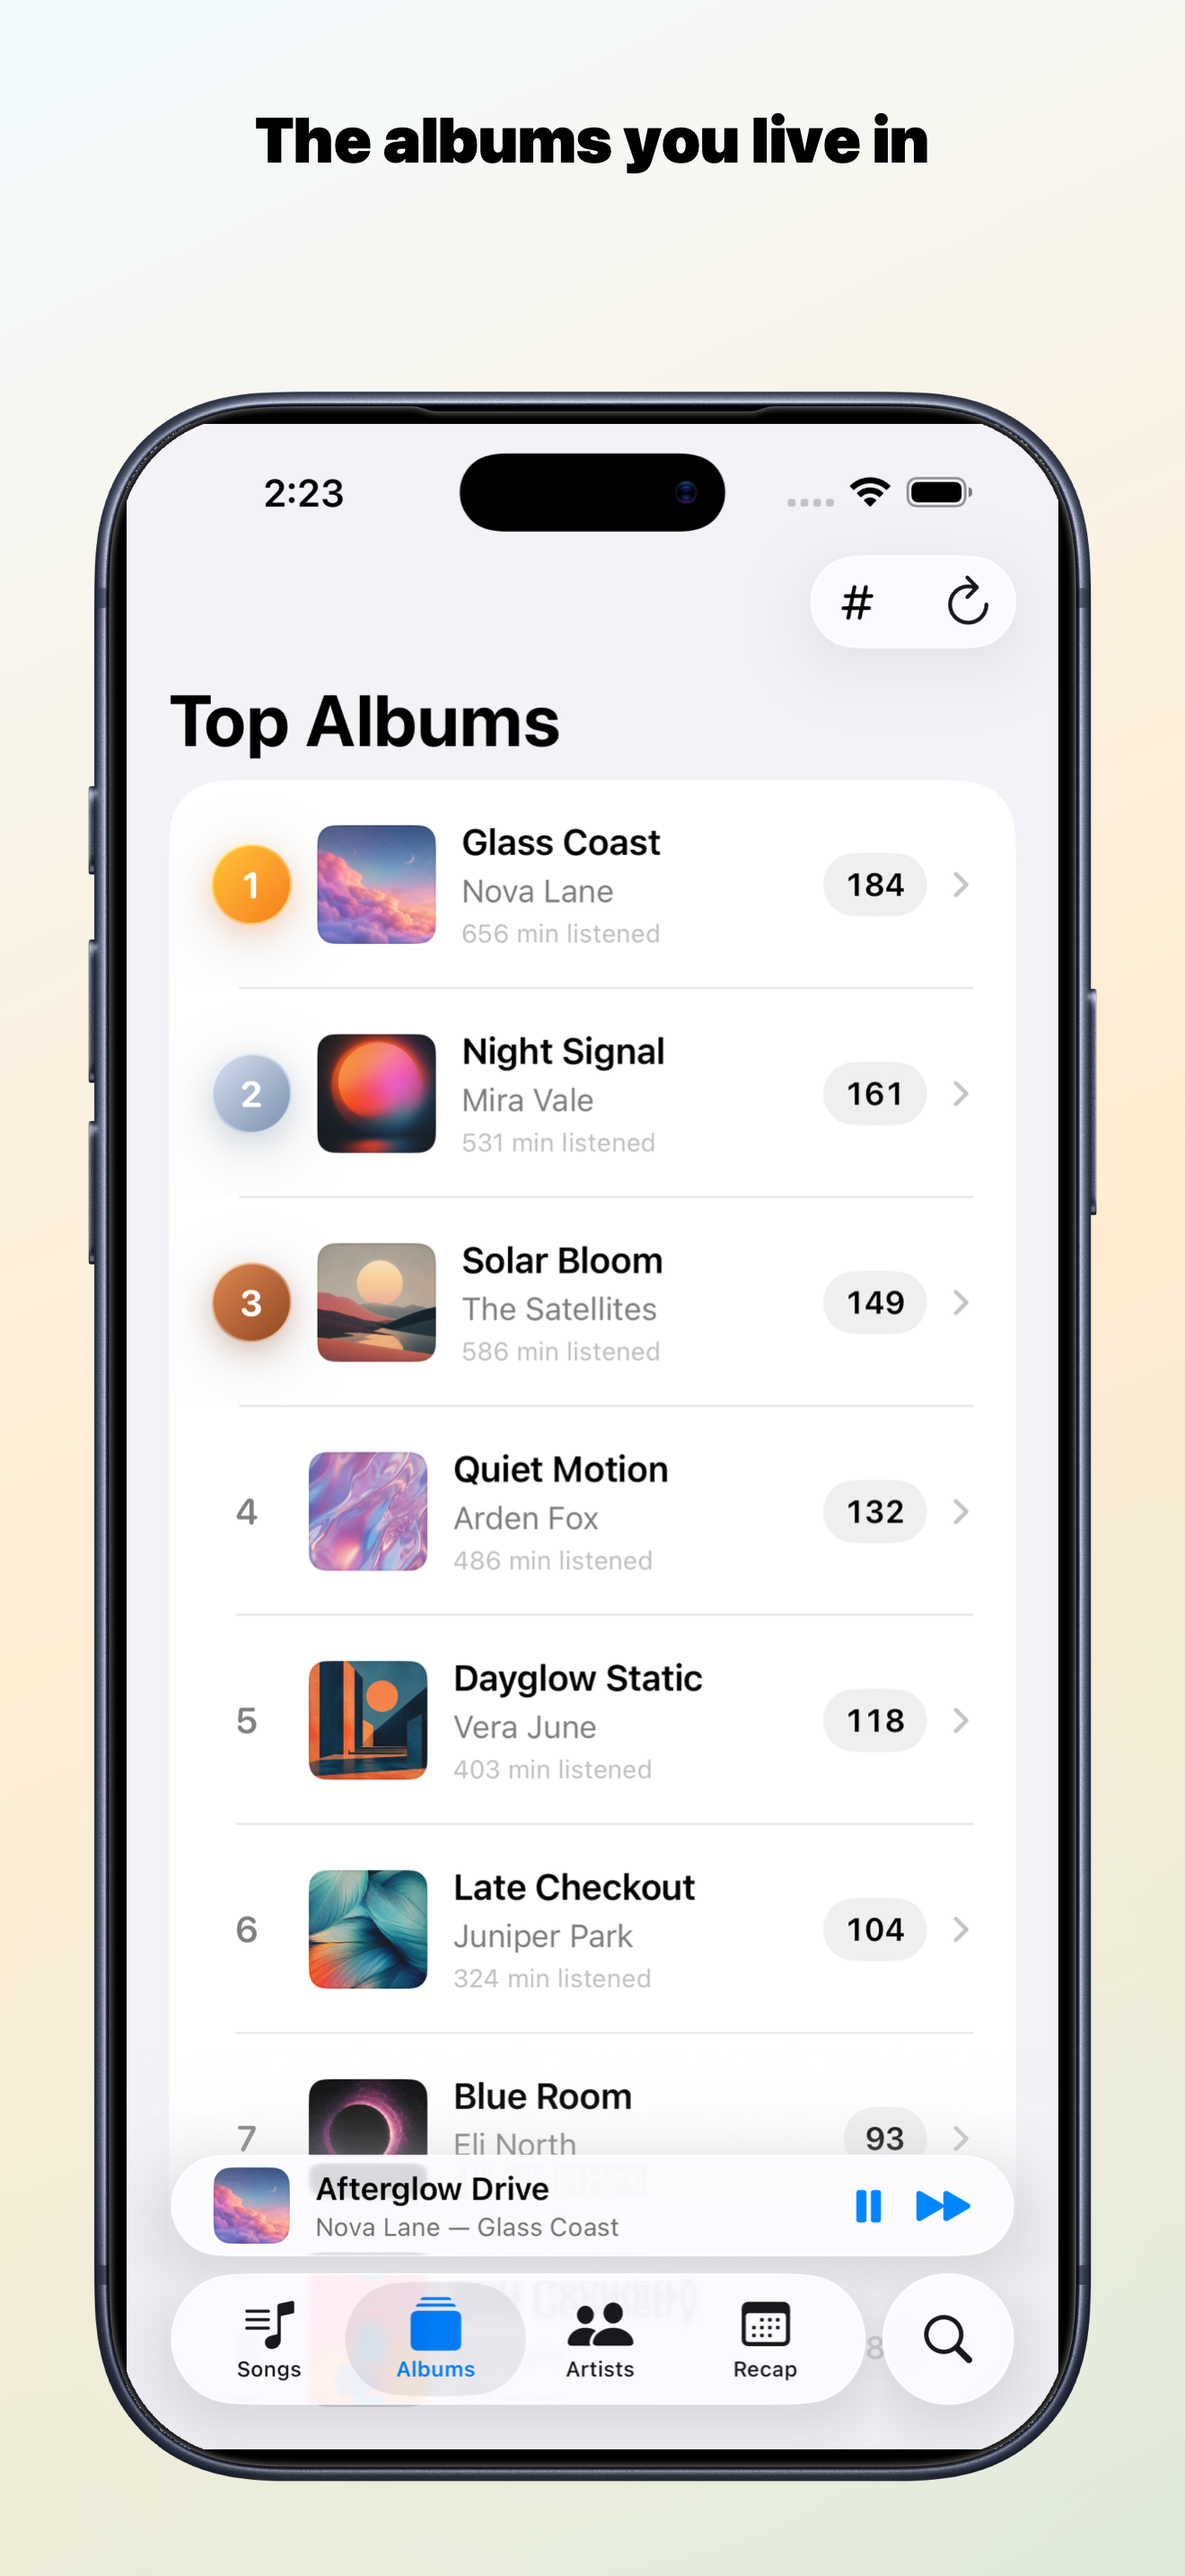
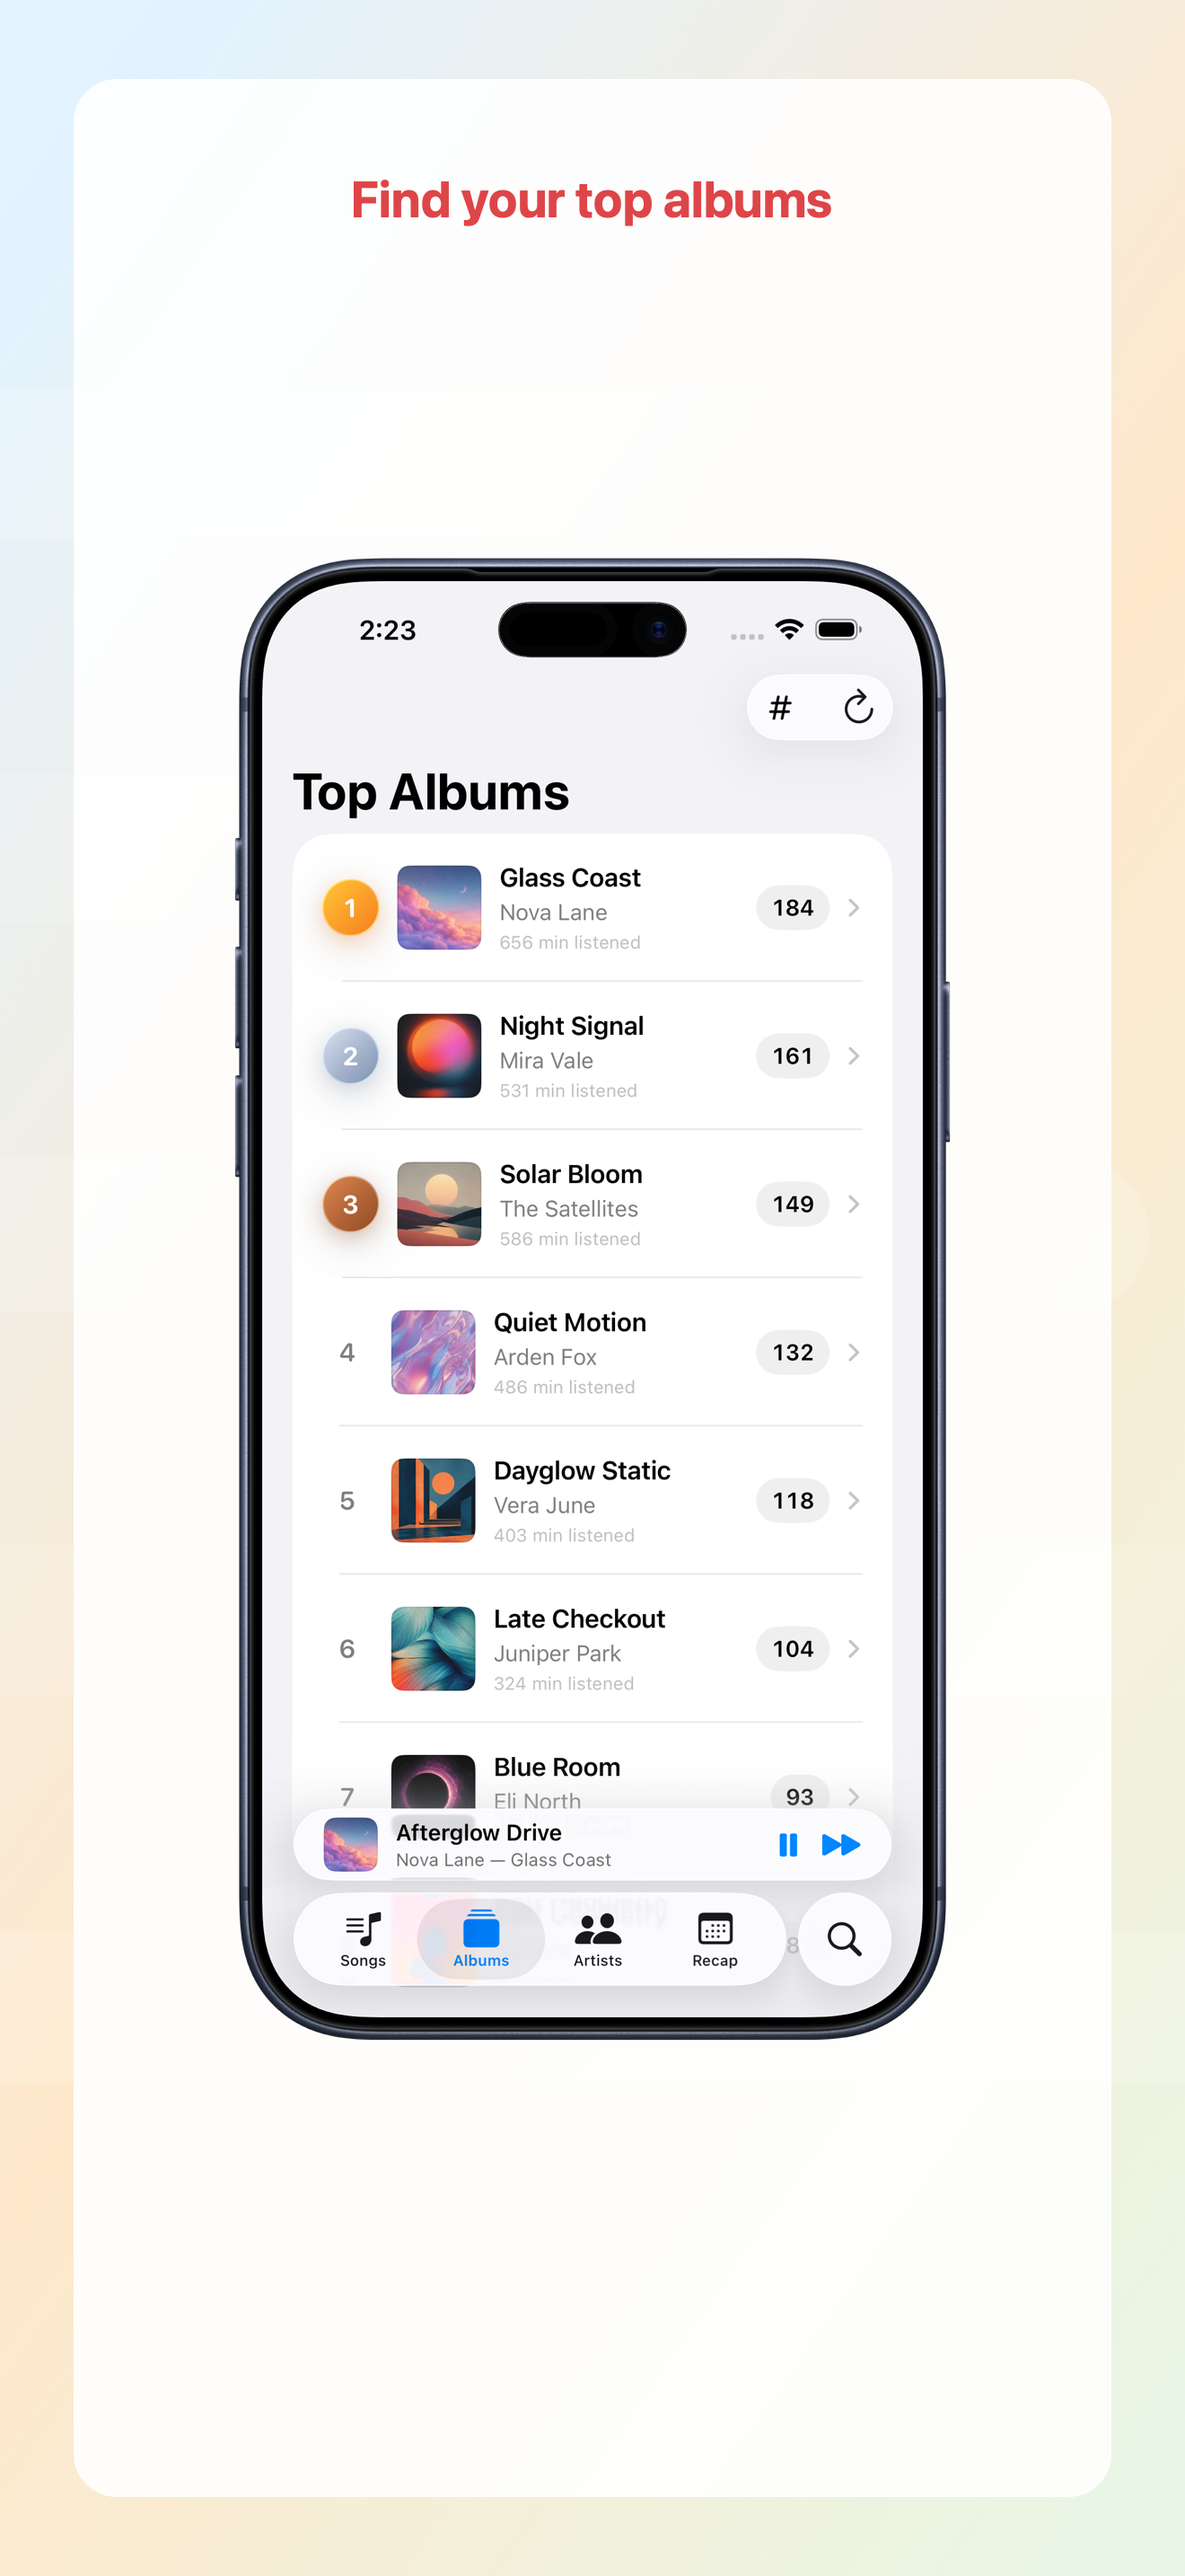
Fix App Store screenshot framing

diff --git a/tools/create_app_store_framed_screenshots.swift b/tools/create_app_store_framed_screenshots.swift
@@ -6,7 +6,7 @@ struct Shot {
     let input: String
     let output: String
     let title: String
-    let colors: [NSColor]
+    let backgroundOffset: CGFloat
 }
 
 let root = URL(fileURLWithPath: FileManager.default.currentDirectoryPath)
@@ -21,49 +21,34 @@ let shots: [Shot] = [
     Shot(
         input: "01-top-songs.png",
         output: "01-your-music-ranked.png",
-        title: "See what you actually replay",
-        colors: [
-            NSColor(calibratedRed: 0.98, green: 0.94, blue: 0.97, alpha: 1),
-            NSColor(calibratedRed: 0.88, green: 0.94, blue: 1.00, alpha: 1),
-            NSColor(calibratedRed: 1.00, green: 0.90, blue: 0.70, alpha: 1)
-        ]
+        title: "See your all-time favorites",
+        backgroundOffset: 0
     ),
     Shot(
         input: "02-top-albums.png",
         output: "02-albums-that-stick.png",
-        title: "The albums you live in",
-        colors: [
-            NSColor(calibratedRed: 0.94, green: 0.98, blue: 1.00, alpha: 1),
-            NSColor(calibratedRed: 1.00, green: 0.91, blue: 0.78, alpha: 1),
-            NSColor(calibratedRed: 0.84, green: 0.90, blue: 0.82, alpha: 1)
-        ]
+        title: "Find your top albums",
+        backgroundOffset: 1
     ),
     Shot(
         input: "03-top-artists.png",
         output: "03-top-artists.png",
-        title: "Who owned your rotation?",
-        colors: [
-            NSColor(calibratedRed: 0.95, green: 0.93, blue: 1.00, alpha: 1),
-            NSColor(calibratedRed: 0.86, green: 0.97, blue: 0.94, alpha: 1),
-            NSColor(calibratedRed: 1.00, green: 0.86, blue: 0.84, alpha: 1)
-        ]
+        title: "Track your top artists",
+        backgroundOffset: 2
     ),
     Shot(
         input: "04-monthly-recap.png",
         output: "04-monthly-recaps.png",
-        title: "Your month in music",
-        colors: [
-            NSColor(calibratedRed: 0.84, green: 0.78, blue: 0.92, alpha: 1),
-            NSColor(calibratedRed: 1.00, green: 0.86, blue: 0.91, alpha: 1),
-            NSColor(calibratedRed: 0.82, green: 0.91, blue: 1.00, alpha: 1)
-        ]
+        title: "Replay your month",
+        backgroundOffset: 3
     )
 ]
 
 let canvasSize = CGSize(width: 1320, height: 2868)
-let deviceFrame = CGRect(x: 82, y: 420, width: 1156, height: 2359)
-let bezelScreenRect = CGRect(x: 75, y: 66, width: 1320, height: 2868)
-let titleRect = CGRect(x: 86, y: 118, width: 1148, height: 132)
+let cardRect = CGRect(x: 82, y: 88, width: 1156, height: 2692)
+let deviceFrame = CGRect(x: 250, y: 610, width: 820, height: 1673)
+let titleRect = CGRect(x: 158, y: 190, width: 1004, height: 210)
+let rgbaBitmapInfo = CGBitmapInfo.byteOrder32Big.rawValue | CGImageAlphaInfo.premultipliedLast.rawValue
 
 func flipped(_ rect: CGRect) -> CGRect {
     CGRect(x: rect.origin.x, y: canvasSize.height - rect.origin.y - rect.height, width: rect.width, height: rect.height)
@@ -100,52 +85,53 @@ func drawText(_ text: String, rect: CGRect, font: NSFont, color: NSColor, contex
     NSGraphicsContext.restoreGraphicsState()
 }
 
-func drawBackground(colors: [NSColor], context: CGContext) {
+func drawBackground(offset: CGFloat, context: CGContext) {
     let colorSpace = CGColorSpaceCreateDeviceRGB()
-    let cgColors = colors.map { $0.cgColor } as CFArray
-    let gradient = CGGradient(colorsSpace: colorSpace, colors: cgColors, locations: [0, 0.54, 1])!
+    let cgColors = [
+        NSColor(calibratedRed: 0.96, green: 0.93, blue: 1.00, alpha: 1).cgColor,
+        NSColor(calibratedRed: 0.86, green: 0.94, blue: 1.00, alpha: 1).cgColor,
+        NSColor(calibratedRed: 1.00, green: 0.89, blue: 0.75, alpha: 1).cgColor,
+        NSColor(calibratedRed: 0.89, green: 0.96, blue: 0.88, alpha: 1).cgColor,
+        NSColor(calibratedRed: 1.00, green: 0.84, blue: 0.92, alpha: 1).cgColor
+    ] as CFArray
+    let gradient = CGGradient(colorsSpace: colorSpace, colors: cgColors, locations: [0, 0.25, 0.50, 0.75, 1])!
     context.drawLinearGradient(
         gradient,
-        start: CGPoint(x: 0, y: canvasSize.height),
-        end: CGPoint(x: canvasSize.width, y: 0),
+        start: CGPoint(x: -canvasSize.width * (0.55 + offset * 0.45), y: canvasSize.height),
+        end: CGPoint(x: canvasSize.width * (1.65 + offset * 0.45), y: 0),
         options: []
     )
 
-    let overlay = CGGradient(
-        colorsSpace: colorSpace,
-        colors: [
-            NSColor.white.withAlphaComponent(0.26).cgColor,
-            NSColor.white.withAlphaComponent(0.00).cgColor
-        ] as CFArray,
-        locations: [0, 1]
-    )!
-    context.drawRadialGradient(
-        overlay,
-        startCenter: CGPoint(x: canvasSize.width * 0.50, y: canvasSize.height * 0.18),
-        startRadius: 0,
-        endCenter: CGPoint(x: canvasSize.width * 0.50, y: canvasSize.height * 0.18),
-        endRadius: 950,
-        options: [.drawsAfterEndLocation]
-    )
+    context.saveGState()
+    context.setBlendMode(.softLight)
+    for index in 0..<5 {
+        let rect = CGRect(
+            x: -760 + CGFloat(index * 120) - offset * 300,
+            y: CGFloat(430 + index * 430),
+            width: 2100,
+            height: 170
+        )
+        let path = CGPath(roundedRect: flipped(rect), cornerWidth: 85, cornerHeight: 85, transform: nil)
+        context.addPath(path)
+        context.setFillColor(NSColor.white.withAlphaComponent(index.isMultiple(of: 2) ? 0.18 : 0.10).cgColor)
+        context.fillPath()
+    }
+    context.restoreGState()
 }
 
-func screenRect(in destination: CGRect, bezelSize: CGSize) -> CGRect {
-    let scaleX = destination.width / bezelSize.width
-    let scaleY = destination.height / bezelSize.height
-    return CGRect(
-        x: destination.minX + bezelScreenRect.minX * scaleX,
-        y: destination.minY + bezelScreenRect.minY * scaleY,
-        width: bezelScreenRect.width * scaleX,
-        height: bezelScreenRect.height * scaleY
-    )
+struct BezelCompositeAssets {
+    let overlay: CGImage
+    let screenMask: CGImage
+    let screenBounds: CGRect
 }
 
-func transparentScreenBezel(from image: CGImage) throws -> CGImage {
+func makeBezelCompositeAssets(from image: CGImage) throws -> BezelCompositeAssets {
     let width = image.width
     let height = image.height
     let bytesPerPixel = 4
     let bytesPerRow = width * bytesPerPixel
     var pixels = [UInt8](repeating: 0, count: height * bytesPerRow)
+    var maskPixels = [UInt8](repeating: 0, count: width * height)
     let colorSpace = CGColorSpaceCreateDeviceRGB()
 
     guard let bitmap = CGContext(
@@ -155,36 +141,111 @@ func transparentScreenBezel(from image: CGImage) throws -> CGImage {
         bitsPerComponent: 8,
         bytesPerRow: bytesPerRow,
         space: colorSpace,
-        bitmapInfo: CGImageAlphaInfo.premultipliedLast.rawValue
+        bitmapInfo: rgbaBitmapInfo
     ) else {
         throw NSError(domain: "renderer", code: 5)
     }
 
     bitmap.draw(image, in: CGRect(x: 0, y: 0, width: width, height: height))
 
-    let minX = max(0, Int(bezelScreenRect.minX))
-    let maxX = min(width, Int(bezelScreenRect.maxX))
-    let minY = max(0, Int(bezelScreenRect.minY))
-    let maxY = min(height, Int(bezelScreenRect.maxY))
+    func isScreenCutout(_ x: Int, _ y: Int) -> Bool {
+        let offset = y * bytesPerRow + x * bytesPerPixel
+        return pixels[offset + 3] < 10
+    }
 
-    for y in minY..<maxY {
-        for x in minX..<maxX {
-            let offset = y * bytesPerRow + x * bytesPerPixel
-            let red = pixels[offset]
-            let green = pixels[offset + 1]
-            let blue = pixels[offset + 2]
-            let alpha = pixels[offset + 3]
-            if alpha > 0 && red < 18 && green < 18 && blue < 22 {
-                pixels[offset] = 0
-                pixels[offset + 1] = 0
-                pixels[offset + 2] = 0
-                pixels[offset + 3] = 0
+    var startPoint: (x: Int, y: Int)?
+    var bestDistance = Int.max
+    let centerX = width / 2
+    let centerY = height / 2
+    for y in 0..<height {
+        for x in 0..<width where isScreenCutout(x, y) {
+            let distance = abs(x - centerX) + abs(y - centerY)
+            if distance < bestDistance {
+                bestDistance = distance
+                startPoint = (x, y)
             }
         }
     }
 
-    guard let output = bitmap.makeImage() else {
+    guard let startPoint else {
+        throw NSError(domain: "renderer", code: 8, userInfo: [NSLocalizedDescriptionKey: "Could not find transparent screen pixels in Apple bezel"])
+    }
+
+    var visited = [Bool](repeating: false, count: width * height)
+    var stack = [startPoint]
+    var minX = width
+    var minY = height
+    var maxX = 0
+    var maxY = 0
+
+    while let point = stack.popLast() {
+        guard point.x >= 0, point.x < width, point.y >= 0, point.y < height else { continue }
+        let index = point.y * width + point.x
+        guard !visited[index] else { continue }
+        visited[index] = true
+        guard isScreenCutout(point.x, point.y) else { continue }
+
+        maskPixels[index] = 255
+        minX = min(minX, point.x)
+        minY = min(minY, point.y)
+        maxX = max(maxX, point.x)
+        maxY = max(maxY, point.y)
+
+        stack.append((point.x + 1, point.y))
+        stack.append((point.x - 1, point.y))
+        stack.append((point.x, point.y + 1))
+        stack.append((point.x, point.y - 1))
+    }
+
+    guard minX < maxX, minY < maxY else {
+        throw NSError(domain: "renderer", code: 8, userInfo: [NSLocalizedDescriptionKey: "Could not detect Apple bezel screen area"])
+    }
+
+    guard let overlay = bitmap.makeImage(),
+          let maskProvider = CGDataProvider(data: Data(maskPixels) as CFData),
+          let mask = CGImage(
+            width: width,
+            height: height,
+            bitsPerComponent: 8,
+            bitsPerPixel: 8,
+            bytesPerRow: width,
+            space: CGColorSpaceCreateDeviceGray(),
+            bitmapInfo: CGBitmapInfo(rawValue: CGImageAlphaInfo.none.rawValue),
+            provider: maskProvider,
+            decode: nil,
+            shouldInterpolate: true,
+            intent: .defaultIntent
+          ) else {
         throw NSError(domain: "renderer", code: 6)
+    }
+
+    return BezelCompositeAssets(
+        overlay: overlay,
+        screenMask: mask,
+        screenBounds: CGRect(x: minX, y: minY, width: maxX - minX + 1, height: maxY - minY + 1)
+    )
+}
+
+func makeScreenshotLayer(screenshot: CGImage, bezelSize: CGSize, screenBounds: CGRect, screenMask: CGImage) throws -> CGImage {
+    guard let context = CGContext(
+        data: nil,
+        width: Int(bezelSize.width),
+        height: Int(bezelSize.height),
+        bitsPerComponent: 8,
+        bytesPerRow: 0,
+        space: CGColorSpaceCreateDeviceRGB(),
+        bitmapInfo: rgbaBitmapInfo
+    ) else {
+        throw NSError(domain: "renderer", code: 9)
+    }
+
+    context.saveGState()
+    context.clip(to: CGRect(x: 0, y: 0, width: bezelSize.width, height: bezelSize.height), mask: screenMask)
+    context.draw(screenshot, in: CGRect(x: screenBounds.minX, y: screenBounds.minY, width: screenBounds.width, height: screenBounds.height))
+    context.restoreGState()
+
+    guard let output = context.makeImage() else {
+        throw NSError(domain: "renderer", code: 10)
     }
     return output
 }
@@ -197,41 +258,45 @@ func render(_ shot: Shot) throws {
         bitsPerComponent: 8,
         bytesPerRow: 0,
         space: CGColorSpaceCreateDeviceRGB(),
-        bitmapInfo: CGImageAlphaInfo.premultipliedLast.rawValue
+        bitmapInfo: rgbaBitmapInfo
     ) else {
         throw NSError(domain: "renderer", code: 1)
     }
 
-    drawBackground(colors: shot.colors, context: context)
+    drawBackground(offset: shot.backgroundOffset, context: context)
+    drawRoundedRect(cardRect, radius: 48, color: NSColor.white.withAlphaComponent(0.90), in: context)
 
     drawText(
         shot.title,
         rect: titleRect,
-        font: NSFont.systemFont(ofSize: 70, weight: .black),
-        color: .black,
+        font: NSFont.systemFont(ofSize: 56, weight: .bold),
+        color: NSColor(calibratedRed: 0.83, green: 0.18, blue: 0.22, alpha: 1),
         context: context,
         alignment: .center,
-        lineHeight: 78
+        lineHeight: 64
     )
 
     guard let bezelImage = NSImage(contentsOf: bezelURL),
           let bezelCGImage = bezelImage.cgImage(forProposedRect: nil, context: nil, hints: nil) else {
         throw NSError(domain: "renderer", code: 7, userInfo: [NSLocalizedDescriptionKey: "Missing Apple bezel image at \(bezelURL.path)"])
     }
-    let bezelOverlay = try transparentScreenBezel(from: bezelCGImage)
-    let screenDestination = screenRect(in: deviceFrame, bezelSize: CGSize(width: bezelCGImage.width, height: bezelCGImage.height))
+    let bezelSize = CGSize(width: bezelCGImage.width, height: bezelCGImage.height)
+    let bezelAssets = try makeBezelCompositeAssets(from: bezelCGImage)
 
     let inputURL = inputDir.appendingPathComponent(shot.input)
     guard let source = NSImage(contentsOf: inputURL), let cgImage = source.cgImage(forProposedRect: nil, context: nil, hints: nil) else {
         throw NSError(domain: "renderer", code: 2, userInfo: [NSLocalizedDescriptionKey: "Missing input \(shot.input)"])
     }
 
-    context.saveGState()
-    context.addPath(CGPath(roundedRect: flipped(screenDestination), cornerWidth: 76, cornerHeight: 76, transform: nil))
-    context.clip()
-    context.draw(cgImage, in: flipped(screenDestination))
-    context.restoreGState()
-    context.draw(bezelOverlay, in: flipped(deviceFrame))
+    let screenshotLayer = try makeScreenshotLayer(
+        screenshot: cgImage,
+        bezelSize: bezelSize,
+        screenBounds: bezelAssets.screenBounds,
+        screenMask: bezelAssets.screenMask
+    )
+
+    context.draw(screenshotLayer, in: flipped(deviceFrame))
+    context.draw(bezelAssets.overlay, in: flipped(deviceFrame))
 
     guard let image = context.makeImage() else {
         throw NSError(domain: "renderer", code: 3)
